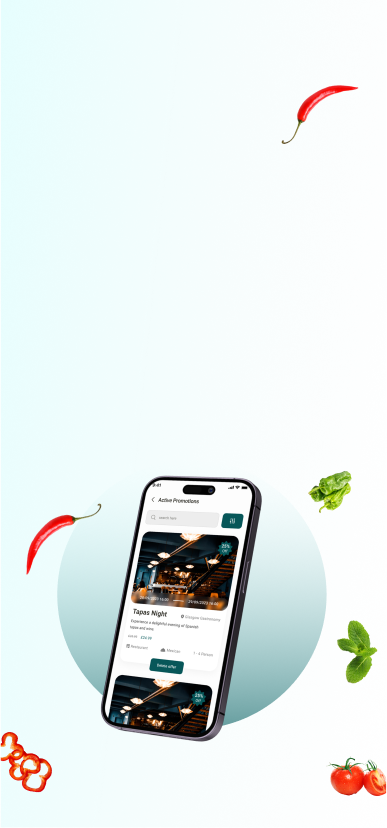
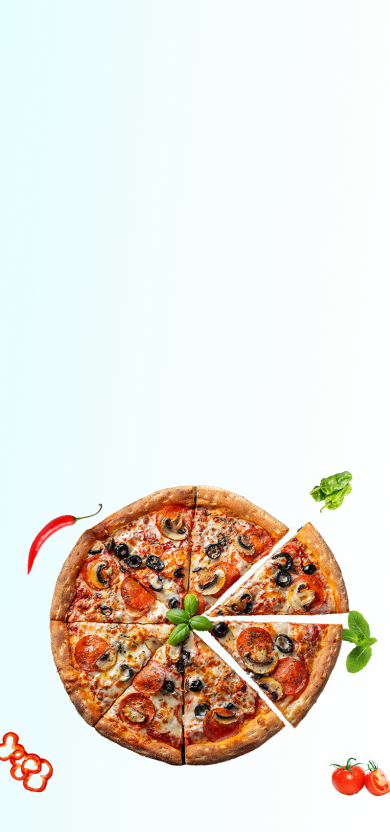
::file update

diff --git a/src/App.css b/src/App.css
@@ -81,6 +81,15 @@ h1 span {
 /* ==== banner css ====== */
 
 .banner {
+    background-image: url('../src/assets/hero-new-img.png');
+    background-repeat: no-repeat;
+    background-size: cover;
+    background-position: bottom;
+    padding-top: 159px;
+    padding-bottom: 35px;
+}
+
+.banner2 {
     background-image: url('../src/assets/banner-bg.png');
     background-repeat: no-repeat;
     background-size: cover;
@@ -99,6 +108,23 @@ h1 span {
 }
 
 .banner p {
+    color: var(--palette-black-black-alpha-100, #000);
+    font-size: 24px;
+    font-weight: 500;
+    line-height: 150%;
+    max-width: 638px;
+    margin-bottom: 50px;
+}
+.banner2 h1 {
+    color: var(--color-primary, #075759);
+    font-size: 64px;
+    font-weight: 800;
+    line-height: 130%;
+    max-width: 751px;
+    margin-bottom: 17px;
+}
+
+.banner2 p {
     color: var(--palette-black-black-alpha-100, #000);
     font-size: 24px;
     font-weight: 500;
@@ -1706,6 +1732,14 @@ h1 span {
         background-position: center;
         position: relative;
     }
+    .banner2 {
+        padding-top: 48px;
+        padding-bottom: 402px;
+        background-image: url('assets/banner2-sm-bg.png');
+        background-size: cover;
+        background-position: center;
+        position: relative;
+    }
 
     .banner h1 {
         font-size: 40px;
@@ -1714,6 +1748,18 @@ h1 span {
     }
 
     .banner p {
+        font-size: 16px;
+        line-height: 24px;
+        margin-bottom: 20px;
+    }
+
+    .banner2 h1 {
+        font-size: 40px;
+        margin-bottom: 14px;
+        line-height: 48px
+    }
+
+    .banner2 p {
         font-size: 16px;
         line-height: 24px;
         margin-bottom: 20px;
@@ -1851,11 +1897,11 @@ h1 span {
         padding-bottom: 160px;
     }
 
-        @media(max-width: 768px) {
-            .dining {
-                    padding-bottom: 90px;
-                }
+    @media(max-width: 768px) {
+        .dining {
+            padding-bottom: 90px;
         }
+    }
 
     .dining h2 {
         font-size: 36px;

diff --git a/src/Components/Shared/Header.jsx b/src/Components/Shared/Header.jsx
@@ -1,6 +1,7 @@
 import { NavLink } from "react-router-dom";
 import logo from "../../assets/logo.png";
-import { useContext, useState } from "react";
+import { useContext } from "react";
+import PDFDwonlaod from "../../assets/foodzee.pdf"
 import { MyContext } from "../../MyContext";
 
 const Header = () => {
@@ -103,23 +104,23 @@ const Header = () => {
               className={({ isActive }) =>
                 isActive ? "nav-link active" : "nav-link"
               }
-              to="#"
+              to={PDFDwonlaod} download="MyExampleDoc" target='_blank'
             >
               Download Now
             </NavLink>
             <div className="user_tab">
               <button
-                className={activeButton === "User" ? "active" : ""}
-                onClick={() => handleButtonClick("User")}
+                className={activeButton === "customer" ? "active" : ""}
+                onClick={() => handleButtonClick("customer")}
               >
-                User
+                Customer
               </button>
 
               <button
-                className={activeButton === "Business" ? "active" : ""}
-                onClick={() => handleButtonClick("Business")}
+                className={activeButton === "restaurant" ? "active" : ""}
+                onClick={() => handleButtonClick("restaurant")}
               >
-                Business
+                Restaurant
               </button>
             </div>
           </div>

diff --git a/src/Components/Home/Banner.jsx b/src/Components/Home/Banner.jsx
@@ -1,13 +1,14 @@
-import React from "react";
+import React, { useContext } from "react";
 import googlePlay from "../../assets/google-play.png";
 import appStore from "../../assets/appstore.png";
 import PDFDwonlaod from "../../assets/foodzee.pdf"
 import { Link } from "react-router-dom";
-
+import { MyContext } from "../../MyContext";
 
 const Banner = () => {
+  const { activeButton } = useContext(MyContext)
   return (
-    <div className="banner">
+    <div className={activeButton === 'customer' ? "banner" : "banner2"}>
       <div className="container">
         <h1>
           <span>Thrifty Bites</span> , Zero Waste Foodzee Deals
@@ -20,7 +21,6 @@ const Banner = () => {
           <Link className="text-decoration-none text-white" to={PDFDwonlaod} download="MyExampleDoc" target='_blank'>
             Download Now!
           </Link>
-
         </button>
         <div className="d-flex  align-items-start  gap-2">
           <button className="p-0">

diff --git a/src/Pages/Home.jsx b/src/Pages/Home.jsx
@@ -25,7 +25,7 @@ const Home = () => {
   return (
     <>
       {
-        activeButton === 'User' && <>
+        activeButton === 'customer' && <>
           <AddModal modalRef={modalRef} />
           <Banner />
           <Quarter />
@@ -38,7 +38,7 @@ const Home = () => {
       }
 
       {
-        activeButton === 'Business' && <HomeTwo />
+        activeButton === 'restaurant' && <HomeTwo />
       }
 
     </>

diff --git a/src/Pages/HomeTwo.jsx b/src/Pages/HomeTwo.jsx
@@ -7,6 +7,7 @@ import JoinFoodzee from '../Components/HomeTwo/JoinFoodzee'
 import FoodzaaCachy from '../Components/HomeTwo/FoodzaaCachy'
 import ResturantPortal from '../Components/HomeTwo/ResturantPortal'
 import PartnerGrowth from '../Components/HomeTwo/PartnerGrowth'
+import AddModal from '../Components/Modal/AddModal'
 
 const HomeTwo = () => {
     return (

diff --git a/src/Layouts/Main.jsx b/src/Layouts/Main.jsx
@@ -6,7 +6,7 @@ import JoinPower from "../Components/Shared/JoinPower";
 import { MyContext } from "../MyContext";
 
 const Main = () => {
-  const [activeButton, setActiveButton] = useState('User');
+  const [activeButton, setActiveButton] = useState('customer');
   const handleButtonClick = (buttonType) => {
     setActiveButton(buttonType);
   };
